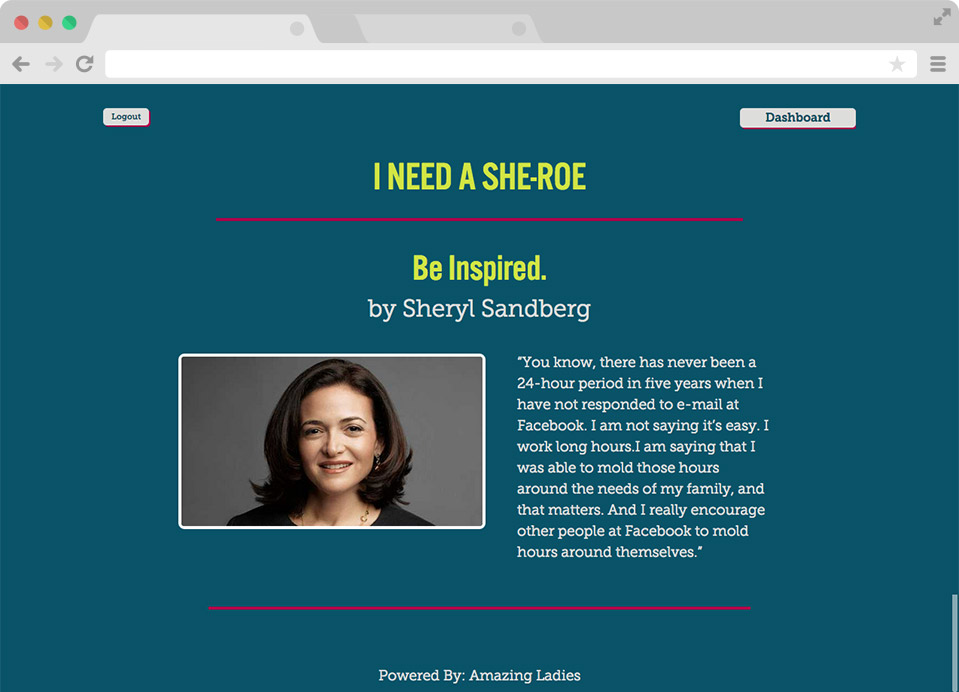
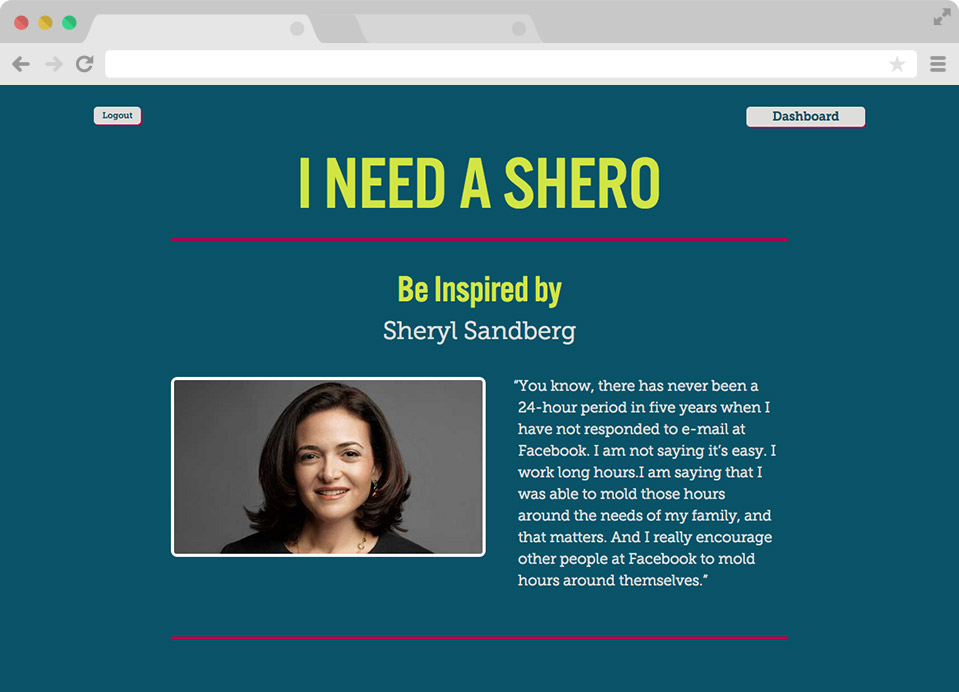
added new photos to hackathon project

diff --git a/_site/portfolio/tiy_hackathon.html b/_site/portfolio/tiy_hackathon.html
@@ -4,7 +4,7 @@
     <meta charset="utf-8">
     <meta http-equiv="X-UA-Compatible" content="IE=edge">
     <meta name="viewport" content="width=device-width, initial-scale=1">
-    <title>TIY Hackathon – She-roe App</title>
+    <title>TIY Hackathon – Shero App</title>
     <meta name="description" content="">
     <link rel="stylesheet" href="/css/main.css">
     <link rel="canonical" href="dawndelatte.github.io/portfolio/tiy_hackathon.html">
@@ -65,7 +65,7 @@
     </header>
 
 <div class="project_mama">
-<h1>TIY Hackathon – She-roe App</h1>
+<h1>TIY Hackathon – Shero App</h1>
 </div>
 
 <div class="project_mama">
@@ -95,7 +95,7 @@
 	</div>
 
 		<div class="sheroe_sub2">
-			<img src="../project_assets/sheroe_sub2.jpg">
+			<img src="../project_assets/shero_sub2.jpg">
 		</div>
 		<div class="project_bubble_left">
 		<p>I down saved all images for web before handing them over to my Rails partner. I wanted each photo and quote to stand out, as they are the main focus of this app.</p>

diff --git a/_layouts/about.html b/_layouts/about.html
@@ -19,19 +19,19 @@ layout: about
 		<h2>I’ve got skills, they’re multiplyin’</h2>
 		<div class="skills_mama">
 			<ul>
-				<li>/ HTML &amp; CSS3</li>
-				<li>/ Sass</li>
-				<li>/ UI Design</li>
-				<li>/ Responsive Design</li>
-				<li>/ Typography</li>
-				<li>/ Git &amp; Github</li>
-				<li>/ Photoshop &amp; Illustrator</li>
+				<li>HTML &amp; CSS3</li>
+				<li>Sass</li>
+				<li>UI Design</li>
+				<li>Responsive Design</li>
+				<li>Typography</li>
+				<li>Git &amp; Github</li>
+				<li>Photoshop &amp; Illustrator</li>
 			</ul>
 			<ul>
-				<li>/ Project planning and organization</li>
-				<li>/ Communication</li>
-				<li>/ Self Assessment</li>
-				<li>/ Collaborative</li>
+				<li>Project planning and organization</li>
+				<li>Communication</li>
+				<li>Self Assessment</li>
+				<li>Collaborative</li>
 			</ul>
 		</div>
 	</div>

diff --git a/_site/about.html b/_site/about.html
@@ -80,19 +80,19 @@
 		<h2>I’ve got skills, they’re multiplyin’</h2>
 		<div class="skills_mama">
 			<ul>
-				<li>/ HTML &amp; CSS3</li>
-				<li>/ Sass</li>
-				<li>/ UI Design</li>
-				<li>/ Responsive Design</li>
-				<li>/ Typography</li>
-				<li>/ Git &amp; Github</li>
-				<li>/ Photoshop &amp; Illustrator</li>
+				<li>HTML &amp; CSS3</li>
+				<li>Sass</li>
+				<li>UI Design</li>
+				<li>Responsive Design</li>
+				<li>Typography</li>
+				<li>Git &amp; Github</li>
+				<li>Photoshop &amp; Illustrator</li>
 			</ul>
 			<ul>
-				<li>/ Project planning and organization</li>
-				<li>/ Communication</li>
-				<li>/ Self Assessment</li>
-				<li>/ Collaborative</li>
+				<li>Project planning and organization</li>
+				<li>Communication</li>
+				<li>Self Assessment</li>
+				<li>Collaborative</li>
 			</ul>
 		</div>
 	</div>

diff --git a/portfolio/tiy_hackathon.html b/portfolio/tiy_hackathon.html
@@ -1,6 +1,6 @@
 ---
 layout: project
-title: TIY Hackathon – She-roe App
+title: TIY Hackathon – Shero App
 ---
 
 <div class="project_mama">
@@ -30,7 +30,7 @@ title: TIY Hackathon – She-roe App
 	</div>
 
 		<div class="sheroe_sub2">
-			<img src="../project_assets/sheroe_sub2.jpg">
+			<img src="../project_assets/shero_sub2.jpg">
 		</div>
 		<div class="project_bubble_left">
 		<p>I down saved all images for web before handing them over to my Rails partner. I wanted each photo and quote to stand out, as they are the main focus of this app.</p>
